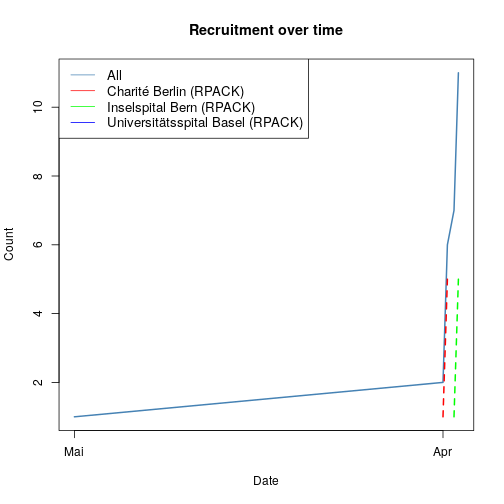
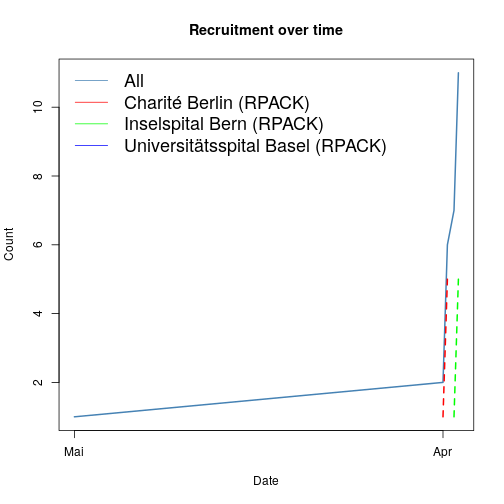
transparent legend box

Changed region(s): [[0.119, 0.119, 0.7738, 0.3274]]

diff --git a/README.md b/README.md
@@ -241,9 +241,9 @@ over time for a given export file.
 
 ```r
 # show plot
-# note that there is no line for Universitätsspital Basel because only one case 
-# is registered for this centre
-plot_recruitment(ctu05, cex = 1.1)
+# note that there is no line for Universitätsspital 
+# Basel because only one case is registered for this centre
+plot_recruitment(ctu05, cex = 1.5)
 ```
 
 ![plot of chunk unnamed-chunk-15](figure/unnamed-chunk-15-1.png)
